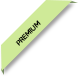
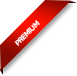
Update the tags images and popup design

Changed region(s): [[0.0, 0.0, 1.0, 1.0]]

diff --git a/adjod/adjod/static/css/index.less b/adjod/adjod/static/css/index.less
@@ -5639,6 +5639,7 @@ li.offline,.product_title_for_chat { display:none !important; }
 	    width: 170px;
 	    position:absolute;
 	    top: 0px;
+	    z-index: 1;
     }
 }
 .select_new {
@@ -6583,4 +6584,28 @@ ul, ol { list-style: none; }
     background: url("../img/close_img1.png") no-repeat scroll 0 0 rgba(0, 0, 0, 0);
     right: -95% !important;
     top: 12px !important;
+}
+.tag_img1{
+	background: url("/static/img/premium_img.png") no-repeat scroll 0 0 rgba(0, 0, 0, 0);
+	width:195px;
+	height:190px;
+	position:absolute;
+	margin: 0px;
+	z-index: 1;
+}
+.tag_img2{
+	background: url("/static/img/urgent_img.png") no-repeat scroll 0 0 rgba(0, 0, 0, 0);
+	width:195px;
+	height:190px;
+	position:absolute;
+	margin: 0px;
+	z-index: 1;
+}
+.tag_img3{
+	background: url("/static/img/premium_urgent_img.png") no-repeat scroll 0 0 rgba(0, 0, 0, 0);
+	width:195px;
+	height:190px;
+	position:absolute;
+	margin: 0px;
+	z-index: 1;
 }

diff --git a/adjod/adjod/templates/advertisement/ad_detail.html b/adjod/adjod/templates/advertisement/ad_detail.html
@@ -26,7 +26,7 @@
                   <span class="Ad-ID">{% trans "Ad ID:" %}{{adinfo.id}} | {{adinfo.created_date}} | {{product_viewed_count}} views</span>
               </div>
               <div class="product-image visible-lg">
-              <!-- <p class="{% if adinfo.premium_plan_id = 4 %} premium-img1 {% elif adinfo.premium_plan_id = 3 %} premium-img2 {% elif adinfo.premium_plan_id = 2 %} premium-img3 {% endif%} "></p> -->
+              <p class="{% if adinfo.premium_plan_id = 4 %} tag_img1 {% elif adinfo.premium_plan_id = 3 %} tag_img2 {% elif adinfo.premium_plan_id = 2 %} tag_img3 {% endif%} "></p>
               <div class="upperimg">
                   <ul id="portfolio" class="clearfix">
                     {%for photo in photos %}
